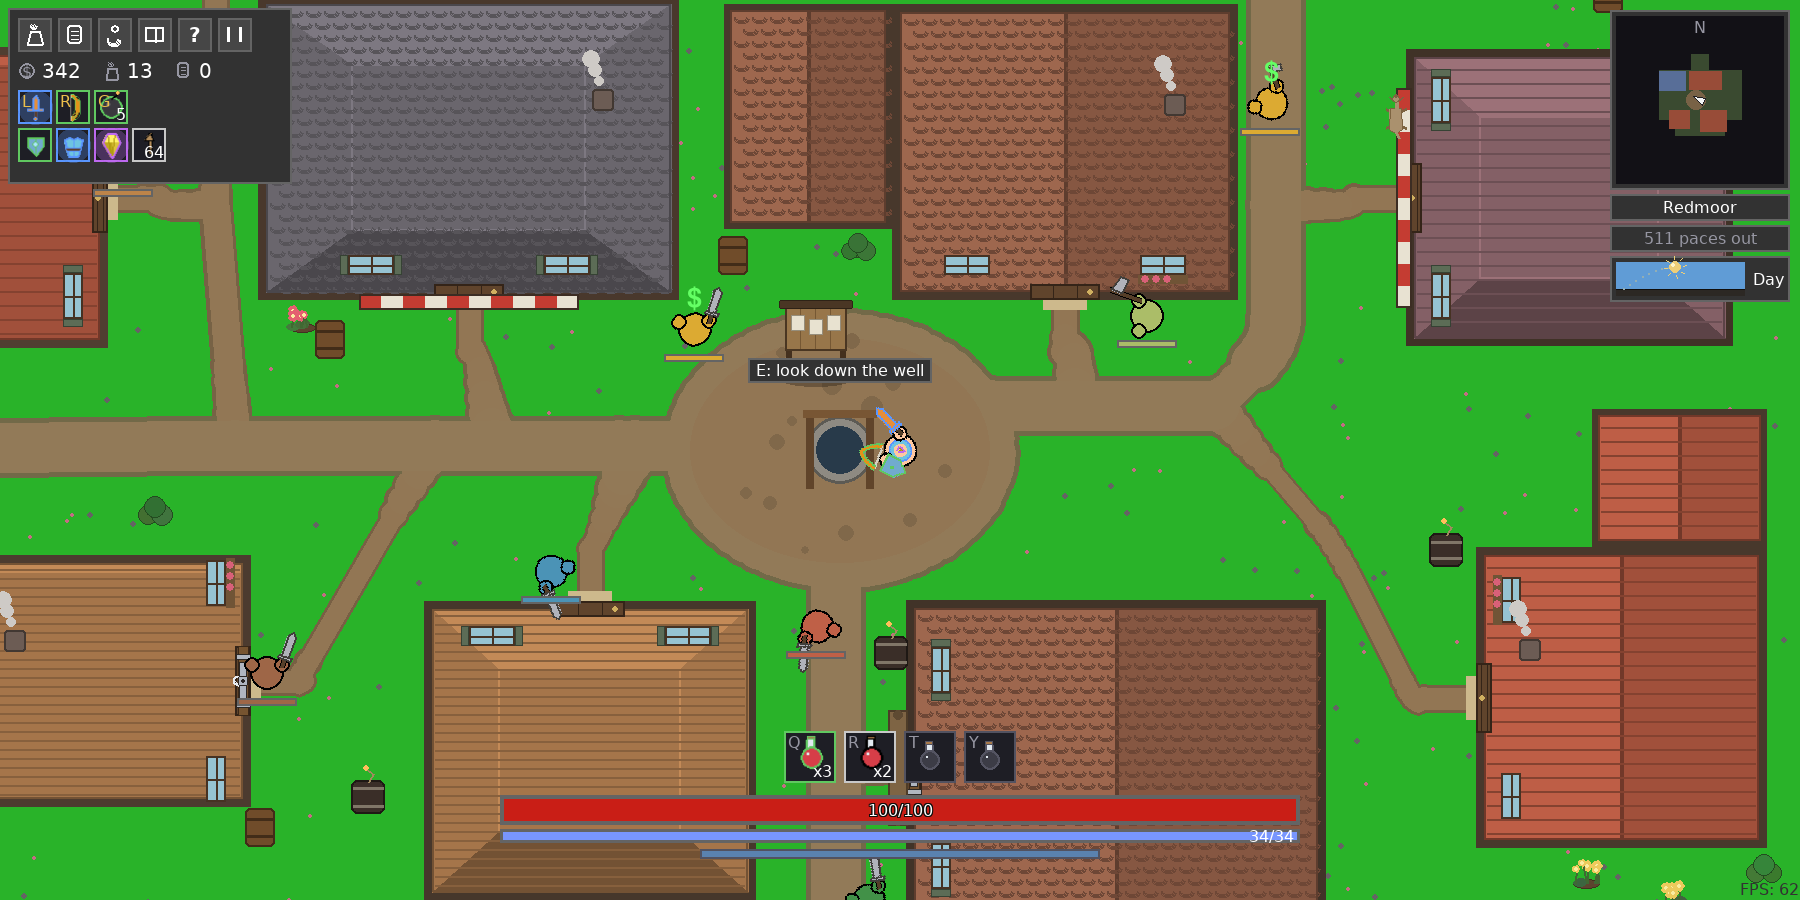
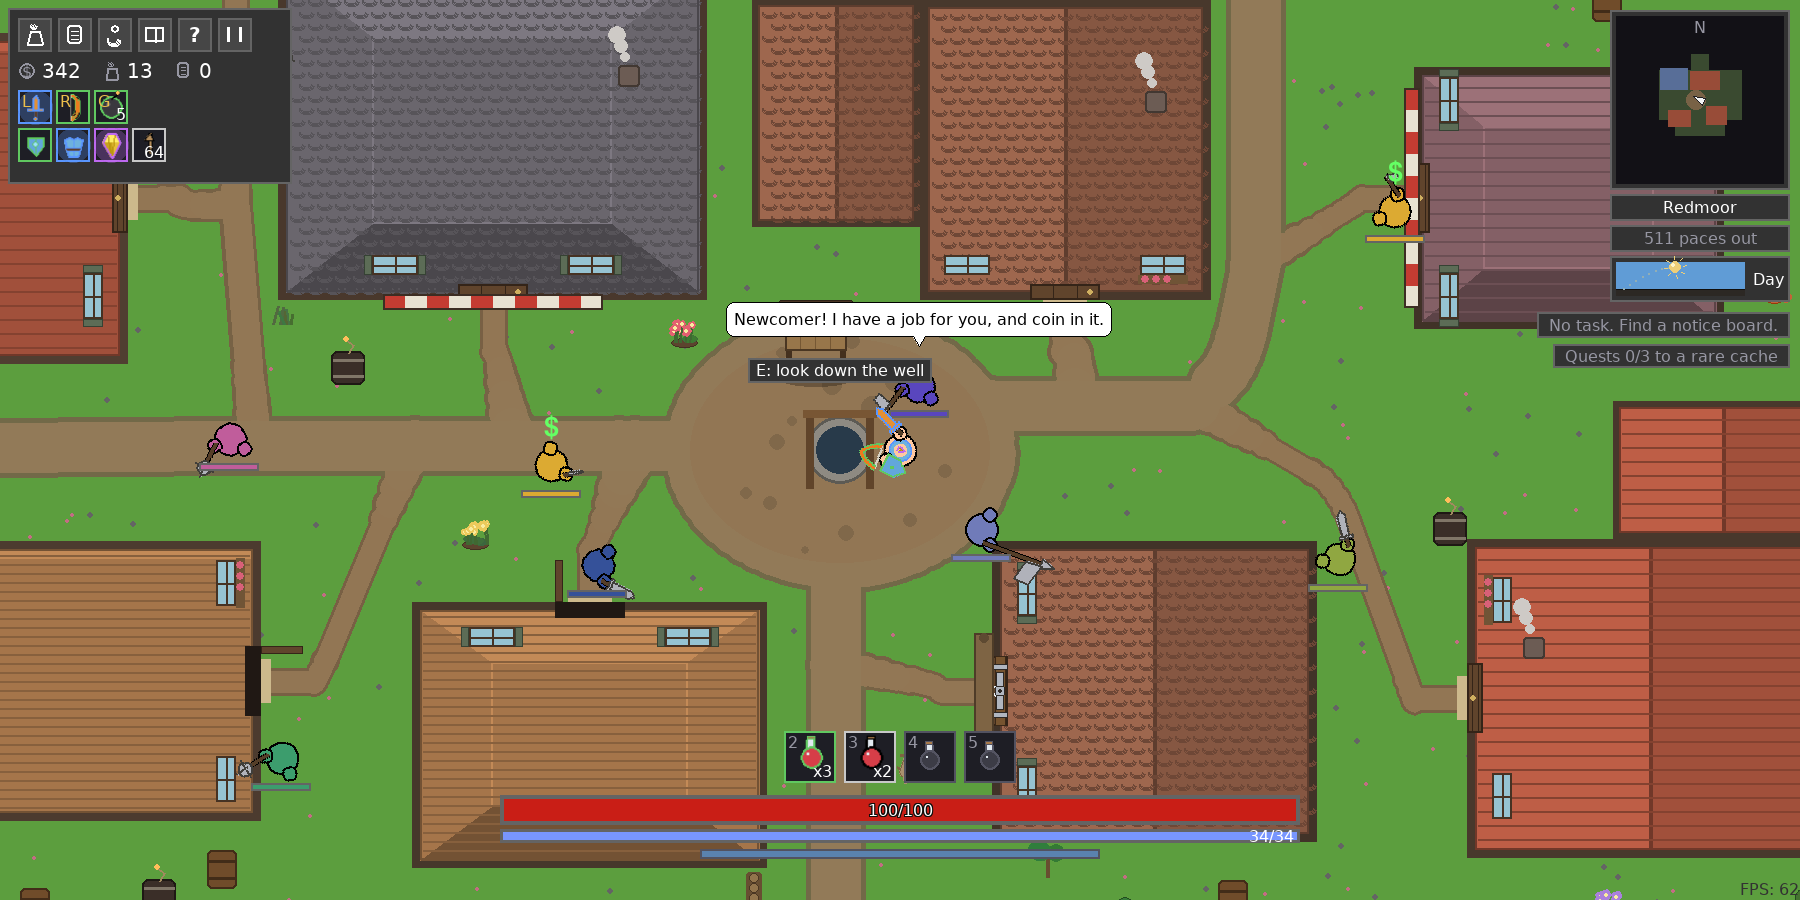
Soften the palette, light the trees and deepen the night

diff --git a/src/game/entities/scenery.py b/src/game/entities/scenery.py
@@ -56,6 +56,7 @@ class Scenery:
         self.family = _WATER_FAMILY.get(kind, kind)
         self.layer = _WATER_LAYER.get(kind, 0)
         self._shape = self._roll_shape()
+        self._shadow = None
         # How far this piece reaches, for the water and bridge lookups: nothing about water
         # blocks, so it needs a footprint of its own rather than borrowing blocking_radius.
         self.water_reach = self._water_reach()
@@ -201,7 +202,7 @@ class Scenery:
     def _roll_canopy(self, rng: random.Random) -> dict:
         pine = self.kind == "pine"
         radius = rng.randint(34, 52) if not pine else rng.randint(28, 40)
-        base = (46, 96, 44) if not pine else (34, 72, 52)
+        base = (58, 114, 50) if not pine else (34, 76, 54)
         lobes = []
         for _ in range(5 if not pine else 4):
             ox = rng.uniform(-radius * 0.45, radius * 0.45)
@@ -213,7 +214,34 @@ class Scenery:
         # Sorted so the biggest lobes go down first and the small bright ones read as the
         # lit top of the canopy rather than being buried under them.
         lobes.sort(key=lambda lobe: -lobe[2])
-        return {"radius": radius, "lobes": lobes, "trunk": rng.randint(7, 10)}
+        shape = {"radius": radius, "lobes": lobes, "trunk": rng.randint(7, 10)}
+        shape["rim"] = tuple(round(v * 0.62) for v in base)
+        # The light comes from the upper left, as on a boulder: the top lobes catch it.
+        shape["lit"] = [
+            (ox - r * 0.28, oy - r * 0.32, round(r * 0.5), tuple(min(255, round(v * 1.22) + 8) for v in color))
+            for ox, oy, r, color in lobes[-2:]
+        ]
+        if pine:
+            shape["tiers"] = self._roll_pine_tiers(rng, radius, base)
+        return shape
+
+    @staticmethod
+    def _roll_pine_tiers(rng: random.Random, radius: int, base: tuple) -> list:
+        """A conifer seen from above: stacked stars of needles, each smaller and lighter than
+        the one under it, so it reads apart from a leafy tree at a glance."""
+        tiers = []
+        spikes = rng.randint(8, 10)
+        for level, scale in enumerate((1.0, 0.72, 0.44)):
+            outer = radius * scale
+            turn = rng.uniform(0, 2 * math.pi)
+            points = []
+            for i in range(spikes * 2):
+                angle = turn + math.pi * i / spikes
+                r = outer if i % 2 == 0 else outer * 0.66
+                points.append((math.cos(angle) * r, math.sin(angle) * r - level * 3))
+            color = tuple(min(255, v + level * 14) for v in base)
+            tiers.append((points, color))
+        return tiers
 
     @staticmethod
     def _roll_boulder(rng: random.Random) -> dict:
@@ -259,7 +287,7 @@ class Scenery:
         ry = round(rx * rng.uniform(0.5, 0.85))
         shades = c.Scenery.PATCH_COLORS[self.biome]
         mult = shades[rng.randrange(len(shades))]
-        color = tuple(max(0, min(255, round(c.Colors.GREEN[i] * mult[i]))) for i in range(3))
+        color = tuple(max(0, min(255, round(c.Colors.GRASS[i] * mult[i]))) for i in range(3))
         # A couple of lobes rather than one clean ellipse, so the edge of a patch reads as
         # ground giving way to other ground and not as a painted circle.
         lobes = [(0.0, 0.0, 1.0)]
@@ -428,8 +456,7 @@ class Scenery:
             self._draw_rubble(screen, center)
             return
         points = [(cx + px, cy + py) for px, py in self._shape["points"]]
-        shadow = [(x + 4, y + 6) for x, y in points]
-        pygame.draw.polygon(screen, (52, 62, 44), shadow)
+        screen.blit(self._boulder_shadow(), (cx - self._shape["radius"], cy - self._shape["radius"]))
         pygame.draw.polygon(screen, self._shape["color"], points)
         pygame.draw.polygon(screen, tuple(round(v * 0.66) for v in self._shape["color"]), points, 2)
         highlight = [(cx + px * 0.45 - 4, cy + py * 0.45 - 5) for px, py in self._shape["points"]]
@@ -459,14 +486,43 @@ class Scenery:
         if self.felled:
             self._draw_fallen(screen, center)
             return
-        shadow = pygame.Rect(0, 0, round(radius * 1.7), round(radius * 1.1))
-        shadow.center = (cx + 8, cy + 12)
-        pygame.draw.ellipse(screen, (48, 68, 40), shadow)
+        shadow = _ground_shadow(round(radius * 1.7), round(radius * 1.1))
+        screen.blit(shadow, shadow.get_rect(center=(cx + 8, cy + 12)))
         pygame.draw.circle(screen, (88, 62, 38), (cx, cy), self._shape["trunk"])
-        for ox, oy, r, color in self._shape["lobes"]:
-            pygame.draw.circle(screen, color, (round(cx + ox), round(cy + oy)), r)
+        if "tiers" in self._shape:
+            self._draw_pine(screen, center)
+        else:
+            rim = self._shape["rim"]
+            for ox, oy, r, _color in self._shape["lobes"]:
+                pygame.draw.circle(screen, rim, (round(cx + ox), round(cy + oy)), r + 2)
+            for ox, oy, r, color in self._shape["lobes"]:
+                pygame.draw.circle(screen, color, (round(cx + ox), round(cy + oy)), r)
+            for ox, oy, r, color in self._shape["lit"]:
+                pygame.draw.circle(screen, color, (round(cx + ox), round(cy + oy)), r)
         # What is left of it, so a tree worth two more swings looks like one.
         self._draw_wear(screen, center, self._shape["trunk"])
+
+    def _draw_pine(self, screen, center):
+        cx, cy = center
+        rim = self._shape["rim"]
+        for i, (points, color) in enumerate(self._shape["tiers"]):
+            polygon = [(cx + px, cy + py) for px, py in points]
+            if i == 0:
+                pygame.draw.polygon(screen, rim, polygon)
+                pygame.draw.polygon(screen, rim, polygon, 3)
+            pygame.draw.polygon(screen, color, polygon)
+            pygame.draw.polygon(screen, rim, polygon, 1)
+
+    def _boulder_shadow(self) -> pygame.Surface:
+        """The stone's own outline, dropped down and right and laid over whatever ground it
+        is on, kept with the boulder since no two are the same shape."""
+        if self._shadow is None:
+            radius = self._shape["radius"]
+            size = radius * 2 + 12
+            self._shadow = pygame.Surface((size, size), pygame.SRCALPHA)
+            points = [(radius + px + 4, radius + py + 6) for px, py in self._shape["points"]]
+            pygame.draw.polygon(self._shadow, (0, 0, 0, c.Scenery.SHADOW_ALPHA), points)
+        return self._shadow
 
     def _draw_wear(self, screen, center, radius: float):
         """The wear taken by a piece of wilderness still standing, through the same crack
@@ -495,6 +551,20 @@ class Scenery:
         pygame.draw.circle(screen, c.Trees.STUMP_COLOR, (cx, cy), trunk)
         pygame.draw.circle(screen, (58, 40, 24), (cx, cy), trunk, 2)
         pygame.draw.circle(screen, (128, 96, 62), (cx, cy), max(1, round(trunk * 0.5)), 1)
+
+
+_SHADOWS: dict = {}
+
+
+def _ground_shadow(width: int, height: int) -> pygame.Surface:
+    """A soft dark ellipse that darkens whatever ground is under it, one per size and kept:
+    an opaque one was a green that only matched the bare grass."""
+    shadow = _SHADOWS.get((width, height))
+    if shadow is None:
+        shadow = pygame.Surface((width, height), pygame.SRCALPHA)
+        pygame.draw.ellipse(shadow, (0, 0, 0, c.Scenery.SHADOW_ALPHA), shadow.get_rect())
+        _SHADOWS[(width, height)] = shadow
+    return shadow
 
 
 # What draws each kind of scenery. An explicit table rather than a name looked up off the

diff --git a/src/core/daynight.py b/src/core/daynight.py
@@ -82,6 +82,36 @@ class DayNightCycle:
         # Kept rather than filled afresh every frame: the sky is one flat colour that holds
         # still for minutes at a time, and a whole screen of it was 2 ms of every night frame.
         # A step per level of alpha, so nothing about the dusk is any coarser than it was.
-        overlay = self._tint.surface(alpha / 255, lambda tint, amount: tint.fill((*color, round(amount * 255))), color)
+        overlay = self._tint.surface(alpha / 255, lambda tint, amount: self._paint(tint, amount, color), color)
         if overlay is not None:
             surface.blit(overlay, (0, 0))
+
+    @staticmethod
+    def _paint(tint: pygame.Surface, amount: float, color: tuple):
+        """The sky, and the dark it gathers at the edges of the view: night closes in on
+        the player rather than lying over the screen as one flat sheet."""
+        tint.fill((*color, round(amount * 255)))
+        depth = min(1.0, amount * 255 / c.DayNight.NIGHT_MAX_ALPHA)
+        edges = _vignette(color).copy()
+        edges.fill((255, 255, 255, round(depth * 255)), special_flags=pygame.BLEND_RGBA_MULT)
+        tint.blit(edges, (0, 0))
+
+
+_VIGNETTE: dict = {}
+
+
+def _vignette(color: tuple) -> pygame.Surface:
+    """Rings of `color`, clear in the middle of the screen and densest in its corners."""
+    if color not in _VIGNETTE:
+        w, h = c.Screen.WIDTH, c.Screen.HEIGHT
+        art = pygame.Surface((w, h), pygame.SRCALPHA)
+        art.fill((*color, c.DayNight.NIGHT_EDGE_ALPHA))
+        rings = 24
+        for i in range(rings):
+            t = i / rings  # 0 at the corners, 1 at the clear middle
+            scale = 1.5 - t * (1.5 - c.DayNight.NIGHT_EDGE_CLEAR)
+            rect = pygame.Rect(0, 0, round(w * scale), round(h * scale))
+            rect.center = (w // 2, h // 2)
+            pygame.draw.ellipse(art, (*color, round(c.DayNight.NIGHT_EDGE_ALPHA * (1 - t) ** 2)), rect)
+        _VIGNETTE[color] = art
+    return _VIGNETTE[color]

diff --git a/src/core/constants/world.py b/src/core/constants/world.py
@@ -219,8 +219,12 @@ class DayNight:
     # everyone turning on their heel at the same instant.
     CURFEW_DARKNESS: float = 0.35
 
-    NIGHT_COLOR: tuple = (15, 20, 60)
-    NIGHT_MAX_ALPHA: int = 90
+    NIGHT_COLOR: tuple = (14, 20, 58)
+    NIGHT_MAX_ALPHA: int = 118
+    # On top of that, the dark gathered at the edges of the view at the depth of night,
+    # and how much of the middle (as a share of the screen) it leaves clear.
+    NIGHT_EDGE_ALPHA: int = 90
+    NIGHT_EDGE_CLEAR: float = 0.55
 
     # Blood night overrides the normal tint with a fixed dark red look, regardless of
     # whatever the time of day would otherwise show.
@@ -862,6 +866,8 @@ class Scenery:
     # counts as being over a body, since its lobes are rolled out past that radius.
     CANOPY_KINDS: tuple = ("tree", "pine")
     CANOPY_FADE_ALPHA: int = 105
+    # How dark the shadow a tree or a boulder lays on the ground is, over whatever is there.
+    SHADOW_ALPHA: int = 70
     CANOPY_COVER_MARGIN: float = 1.35
 
     # Roads: every village site is joined to its nearest ROAD_LINKS neighbours, and the

diff --git a/src/rpg_ai/__main__.py b/src/rpg_ai/__main__.py
@@ -1,3 +1,4 @@
+import os
 import sys
 import threading
 
@@ -70,7 +71,10 @@ def main():
     pygame.mixer.pre_init(44100, -16, 1, 512)
     pygame.init()
     # SCALED keeps the fixed layout resolution and translates mouse coordinates, so
-    # fullscreen is a stretch of the same screen rather than a different one.
+    # fullscreen is a stretch of the same screen rather than a different one. Stretched
+    # smoothly: pygame's default is nearest, which at a ratio like 1.5 doubles some rows
+    # of pixels and not others and leaves every letter jagged.
+    os.environ.setdefault("SDL_RENDER_SCALE_QUALITY", "linear")
     screen = pygame.display.set_mode((c.Screen.WIDTH, c.Screen.HEIGHT), pygame.SCALED | pygame.FULLSCREEN)
     clock = pygame.time.Clock()
     c.Fonts = c.Fonts.load()

diff --git a/src/ui/game_renderer.py b/src/ui/game_renderer.py
@@ -319,7 +319,7 @@ class GameRenderer:
         the roads and water drawn in passes over the chunk, and the plaza each settlement is
         built around. Nothing here stands on the ground, so nothing here is depth-sorted:
         the order is the order the passes are written in and that is the whole of it."""
-        self.screen.fill(c.Colors.GREEN)
+        self.screen.fill(c.Colors.GRASS)
 
         # The one loop long enough for the culling itself to cost something: a few hundred
         # pebbles per chunk, so it asks the world for the chunks it can see rather than

diff --git a/src/core/constants/ui.py b/src/core/constants/ui.py
@@ -86,6 +86,9 @@ class Minimap:
 class Colors:
     BLACK: tuple = (0, 0, 0)
     GREEN: tuple = (41, 179, 41)
+    # The ground itself, kept apart from the UI's green: a meadow a little short of
+    # saturated, so what stands on it and what is painted over it both read.
+    GRASS: tuple = (92, 158, 62)
     RED: tuple = (201, 30, 22)
     WHITE: tuple = (255, 255, 255)
     YELLOW: tuple = (255, 255, 0)

diff --git a/src/ui/menus/menu_scene.py b/src/ui/menus/menu_scene.py
@@ -143,7 +143,7 @@ class MenuScene:
     def draw(self):
         """The same order `GameRenderer.draw_world` uses: ground, plaza, buildings, then
         everything standing on top of them."""
-        self.screen.fill(c.Colors.GREEN)
+        self.screen.fill(c.Colors.GRASS)
         for kind in c.Scenery.GROUND_KINDS:
             for item in self.ground:
                 if item.kind == kind:
